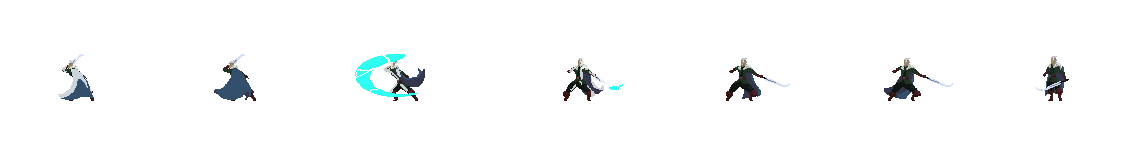
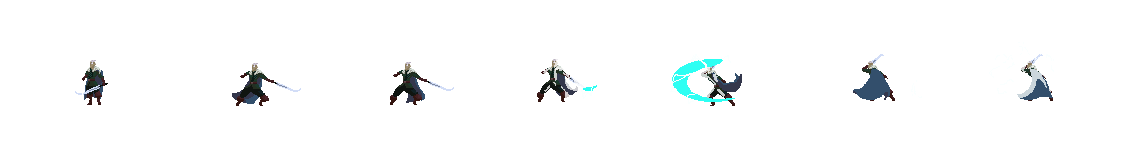
ataques

diff --git a/js/main.js b/js/main.js
@@ -99,6 +99,14 @@ const player = new Fighter({
             imageSrc: './assets/1/Attack1_invertido.png',
             frameMax: 7,
         }
+    },
+    attackBox: {
+        offSet: {
+            x: 100,
+            y: 12
+        },
+        width: 100,
+        height: 50
     }
 });
 
@@ -165,6 +173,14 @@ const enemy = new Fighter({
             imageSrc: './assets/2/Attack1_invertido.png',
             frameMax: 7,
         }
+    },
+    attackBox: {
+        offSet: {
+            x: -300,
+            y: 12
+        },
+        width: 100,
+        height: 50
     }
 });
 
@@ -185,97 +201,100 @@ function animate() {
     bird.update();
     player.update();
     enemy.update();
+    console.log(player);
+    // console.log(enemy);
 
     player.velocity.x = 0;
     enemy.velocity.x = 0;
 
-    // check vision
+    // // check vision
     if (player.position.x + player.width > enemy.position.x + enemy.width) {
-        player.attackBox.offSet.x = -50;
-        enemy.attackBox.offSet.x = 0;
+        player.infront = false;
+        enemy.infront = true;
+        player.attackBox.offSet.x = -150;
+        enemy.attackBox.offSet.x = 60;
     } else {
-        player.attackBox.offSet.x = 0;
-        enemy.attackBox.offSet.x = -50;
+        player.infront = true;
+        enemy.infront = false;
+        player.attackBox.offSet.x = 100;
+        player.attackBox.offSet.y = 40;
+        enemy.attackBox.offSet.x = -214;
     }
 
 
     // player movement
     if (getKey('a') && (player.lastKey === 'a' || !getKey('d'))) {
         player.velocity.x = -5;
-        if (player.attackBox.offSet.x === -50) {
-            player.switchSprites('run_invertido');
-        } else {
+        if (player.infront) {
             player.switchSprites('run');
+        } else {
+            player.switchSprites('run_invertido');
         }
     } else if (getKey('d') && (player.lastKey === 'd' || !getKey('a'))) {
         player.velocity.x = 5
-        if (player.attackBox.offSet.x === -50) {
-            player.switchSprites('run_invertido');
-        } else {
+        if (player.infront) {
             player.switchSprites('run');
+        } else {
+            player.switchSprites('run_invertido');
         }
     } else {
-        if (player.attackBox.offSet.x === -50) {
-            player.switchSprites('idle_invertido');
-        } else {
+        if (player.infront) {
             player.switchSprites('idle');
+        } else {
+            player.switchSprites('idle_invertido');
         }
     }
 
     // jumping player
     if (player.velocity.y < 0) {
-        if (player.attackBox.offSet.x === -50) {
-            player.switchSprites('jump_invertido');
-        } else {
+        if (player.infront) {
             player.switchSprites('jump');
+        } else {
+            player.switchSprites('jump_invertido');
         }
     } else if (player.velocity.y > 0) {
-        if (player.attackBox.offSet.x === -50) {
-            player.switchSprites('fall_invertido');
-        } else {
+        if (player.infront) {
             player.switchSprites('fall');
+        } else {
+            player.switchSprites('fall_invertido');
         }
     }
 
     // enemy movement
     if (getKey('ArrowLeft') && (enemy.lastKey === 'ArrowLeft' || !getKey('ArrowRight'))) {
         enemy.velocity.x = -5
-        if (enemy.attackBox.offSet.x === -50) {
-            enemy.switchSprites('run_invertido');
-            console.log("oi");
-        } else {
+        if (enemy.infront) {
             enemy.switchSprites('run');
-            console.log("oiads");
+        } else {
+            enemy.switchSprites('run_invertido');
         }
     } else if (getKey('ArrowRight') && (enemy.lastKey === 'ArrowRight' || !getKey('ArrowLeft'))) {
         enemy.velocity.x = 5
-        if (enemy.attackBox.offSet.x === -50) {
-            enemy.switchSprites('run_invertido');
-            console.log("oi");
-        } else {
+        if (enemy.infront) {
             enemy.switchSprites('run');
-            console.log("oiads");
+        } else {
+            enemy.switchSprites('run_invertido');
         }
     } else {
-        if (enemy.attackBox.offSet.x === -50) {
-            enemy.switchSprites('idle_invertido');
-        } else {
+        if (enemy.infront) {
             enemy.switchSprites('idle');
+        } else {
+            enemy.switchSprites('idle_invertido');
         }
     }
 
     // jumping enemy
     if (enemy.velocity.y < 0) {
-        if (enemy.attackBox.offSet.x === -50) {
-            enemy.switchSprites('jump_invertido');
-        } else {
+        if (enemy.infront) {
             enemy.switchSprites('jump');
+        } else {
+            enemy.switchSprites('jump_invertido');
         }
     } else if (enemy.velocity.y > 0) {
-        if (enemy.attackBox.offSet.x === -50) {
-            enemy.switchSprites('fall_invertido');
-        } else {
+        if (enemy.infront) {
             enemy.switchSprites('fall');
+        } else {
+            enemy.switchSprites('fall_invertido');
         }
     }
 

diff --git a/js/Fighter.js b/js/Fighter.js
@@ -3,7 +3,9 @@ import { Sprite } from './Sprite.js';
 const gravity = 0.7
 
 export class Fighter extends Sprite {
-    constructor({ ctx, position, velocity, color = 'red', imageSrc, scale = 1, frameMax = 1, offSet = { x: 0, y: 0 }, sprites }) {
+    constructor({ ctx, position, velocity, color = 'red', imageSrc, scale = 1, frameMax = 1, offSet = { x: 0, y: 0 }, sprites,
+    attackBox = { offSet: {}, width: undefined, height: undefined }
+    }) {
         super({
             ctx,
             position,
@@ -19,20 +21,21 @@ export class Fighter extends Sprite {
         this.width = 50;
         this.height = 150;
         this.lastKey
-        this.attackBox = {
+        this.attackBox = { 
             position: {
-                X: this.position.x,
+                x: this.position.x,
                 y: this.position.y
             },
-            offSet: offSet,
-            width: 100,
-            height: 50
+            offSet: attackBox.offSet,
+            width: attackBox.width,
+            height: attackBox.height
         }
         this.color = color;
         this.isAttacking = false;
         this.ctx = ctx;
         this.inFloor = true;
         this.sprites = sprites;
+        this.infront = true;
 
         for (const sprite in this.sprites) {
             sprites[sprite].image = new Image();
@@ -44,8 +47,12 @@ export class Fighter extends Sprite {
         this.draw();
         this.animateFrame()
 
+        // attack box
         this.attackBox.position.x = this.position.x + this.attackBox.offSet.x;
-        this.attackBox.position.y = this.position.y;
+        this.attackBox.position.y = this.position.y + this.attackBox.offSet.y;
+
+        this.ctx.fillRect(this.attackBox.position.x, this.attackBox.position.y, this.attackBox.width, this.attackBox.height);
+
 
         this.position.x += this.velocity.x;
         this.position.y += this.velocity.y;
@@ -61,10 +68,10 @@ export class Fighter extends Sprite {
     }
 
     attack() {
-        if (this.attackBox.offSet.x === -50) {
-            this.switchSprites('attack1_invertido');
-        }else  {
+        if (this.infront) {
             this.switchSprites('attack1');
+        } else {
+            this.switchSprites('attack1_invertido');
         }
         this.isAttacking = true;
         setTimeout(() => {
@@ -73,8 +80,8 @@ export class Fighter extends Sprite {
     }
 
     switchSprites(sprite) {
-        if ((this.image === this.sprites.attack1.image && this.frameCurrent < this.sprites.attack1.frameMax -1) || 
-        (this.image === this.sprites.attack1_invertido.image && this.frameCurrent < this.sprites.attack1_invertido.frameMax -1)) {
+        if ((this.image === this.sprites.attack1.image && this.frameCurrent < this.sprites.attack1.frameMax - 1) ||
+            (this.image === this.sprites.attack1_invertido.image && this.frameCurrent < this.sprites.attack1_invertido.frameMax - 1)) {
             return
         }
         switch (sprite) {
@@ -141,13 +148,13 @@ export class Fighter extends Sprite {
                     this.frameCurrent = 0;
                 }
                 break;
-                case 'attack1_invertido':
-                    if (this.image !== this.sprites.attack1_invertido.image) {
-                        this.frameMax = this.sprites.attack1_invertido.frameMax;
-                        this.image = this.sprites.attack1_invertido.image;
-                        this.frameCurrent = 0;
-                    }
-                    break;
+            case 'attack1_invertido':
+                if (this.image !== this.sprites.attack1_invertido.image) {
+                    this.frameMax = this.sprites.attack1_invertido.frameMax;
+                    this.image = this.sprites.attack1_invertido.image;
+                    this.frameCurrent = 0;
+                }
+                break;
             default:
                 break;
         }
